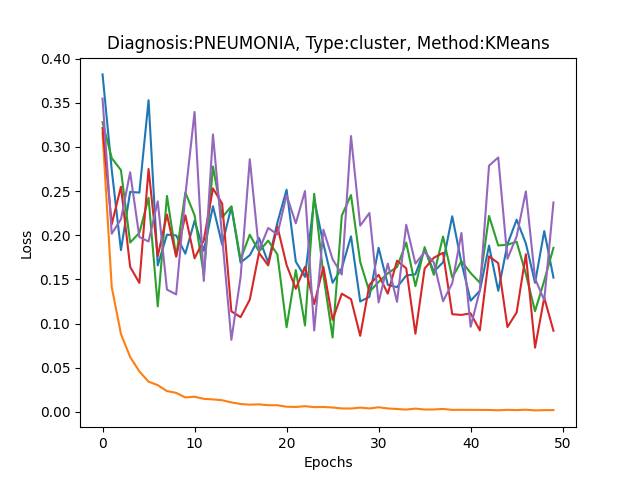
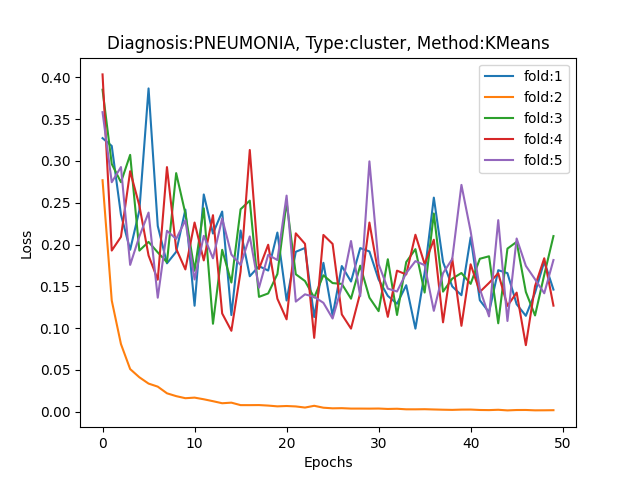
added comments, modified logging, legends in plots

diff --git a/mimic3/cluster/utils.py b/mimic3/cluster/utils.py
@@ -93,12 +93,14 @@ def combine_drug_sequences(diagnosis,dir_name,method=None):
 
 def train_individual(diagnosis, dirname,method=None):
     dataset=DataSet(diagnosis,dirname,method)
+    print(torch.sum(dataset.output_tensor==1))
     input_size=dataset.drug_tensor.shape[1]
     output_size=dataset.output_tensor.shape[1]
     batch_size=100
     k_folds=5
     kfold = KFold(n_splits=k_folds, shuffle=False)
     folds_accuracy_list=[]
+    # 0-500, 500-1000, ...,2000-2500 ids are taken as test for each fold
     for fold, (train_ids, test_ids) in enumerate(kfold.split(dataset)):
         print(f"Diagnosis {diagnosis}.")
         print(f"Fold {fold}")
@@ -124,22 +126,25 @@ def train_individual(diagnosis, dirname,method=None):
                 optimizer.step()
             total_loss.append(loss.item())
 
-        plt.plot(total_loss)
+        plt.plot(total_loss,label=f"fold:{fold+1}")
         title=f"Diagnosis:{diagnosis}, Type:{dirname}, Method:{method}" if method else \
             f"Diagnosis:{diagnosis}, Type:{dirname}"
         plt.xlabel('Epochs')
         plt.ylabel('Loss')
         plt.title(title)
-
+        plt.legend(loc="upper right")
 
         #pred
         output_accuracy_list=[]
+        logger.info(f"{diagnosis},{dirname},{method}")
         with torch.no_grad():
-            for _, (x,y) in enumerate(test_loader):
+            for i, (x,y) in enumerate(test_loader):
                 output_pred=model(x)
                 pred = ((output_pred.data>0.5).flatten()).float()
-                if any(pred==1): print("There is 1 in prediction.")
-                if any(y.flatten()==1): print("There is 1 in output.")
+                if any(pred==1):
+                    logger.info(f"Fold {fold},batch {i},there is 1 in prediction.")
+                if any(y.flatten()==1):
+                    logger.info(f"Fold {fold},batch {i}, there is 1 in output.")
                 output_accuracy = (torch.sum(pred == y.flatten()).item())/y.shape[0]
                 output_accuracy_list.append(output_accuracy)
 
@@ -149,5 +154,5 @@ def train_individual(diagnosis, dirname,method=None):
 
     plt.show()
     folds_average=sum(folds_accuracy_list)/len(folds_accuracy_list)
-    logger.info(f"{diagnosis},{dirname},{method}")
-    logger.info(f"output accuracy (folds average): {folds_average}")
+    logger.info(f"{diagnosis},{dirname},{method}\n")
+    logger.info(f"output accuracy (folds average): {folds_average}\n")

diff --git a/mimic3/cluster/main.py b/mimic3/cluster/main.py
@@ -35,6 +35,7 @@ def calculate_distances():
             DistributionModel(diagnosis=diagnosis, timestep=t)()
 
 def combine_store_drug_sequences():
+    #NOTE functionality is performed for each diagnoses, but training is done only for 1 of them.
     for diagnosis in diagnoses:
         for dir_name in ['distance','cluster','kstest']:
             if dir_name=='distance':
@@ -48,19 +49,19 @@ def combine_store_drug_sequences():
 
 
 def train():
-    for diagnosis in diagnoses:
-        for dir_name in ['distance','cluster','kstest']:
-            if dir_name=='distance':
-                for f in similarity_functions:
-                    train_individual(diagnosis,dir_name,f)
-            elif dir_name=='cluster':
-                for f in clustering_functions:
-                    train_individual(diagnosis,dir_name,f)
-            else:
-                train_individual(diagnosis,dir_name)
-        #NOTE we evaluate only for 1 diagnosis (other diagnosis have very littl
-        # output diversity)
-        break
+    #NOTE ['CONGESTIVE HEART FAILURE','SEPSIS','ALTERED MENTAL STATUS' have only 0s in generated output]
+    # for 'DIABETIC KETOACIDOSIS', drastic accuracies between folds (maybe due to data), not reported.
+    for dir_name in ['distance','cluster','kstest']:
+        if dir_name=='distance':
+            for f in similarity_functions:
+                train_individual('PNEUMONIA',dir_name,f)
+        elif dir_name=='cluster':
+            for f in clustering_functions:
+                train_individual('PNEUMONIA',dir_name,f)
+        else:
+            train_individual('PNEUMONIA',dir_name)
+
+
 
 """
 plots configs in train() may be affected by the configs in calculate_distances(), better to run seperately
